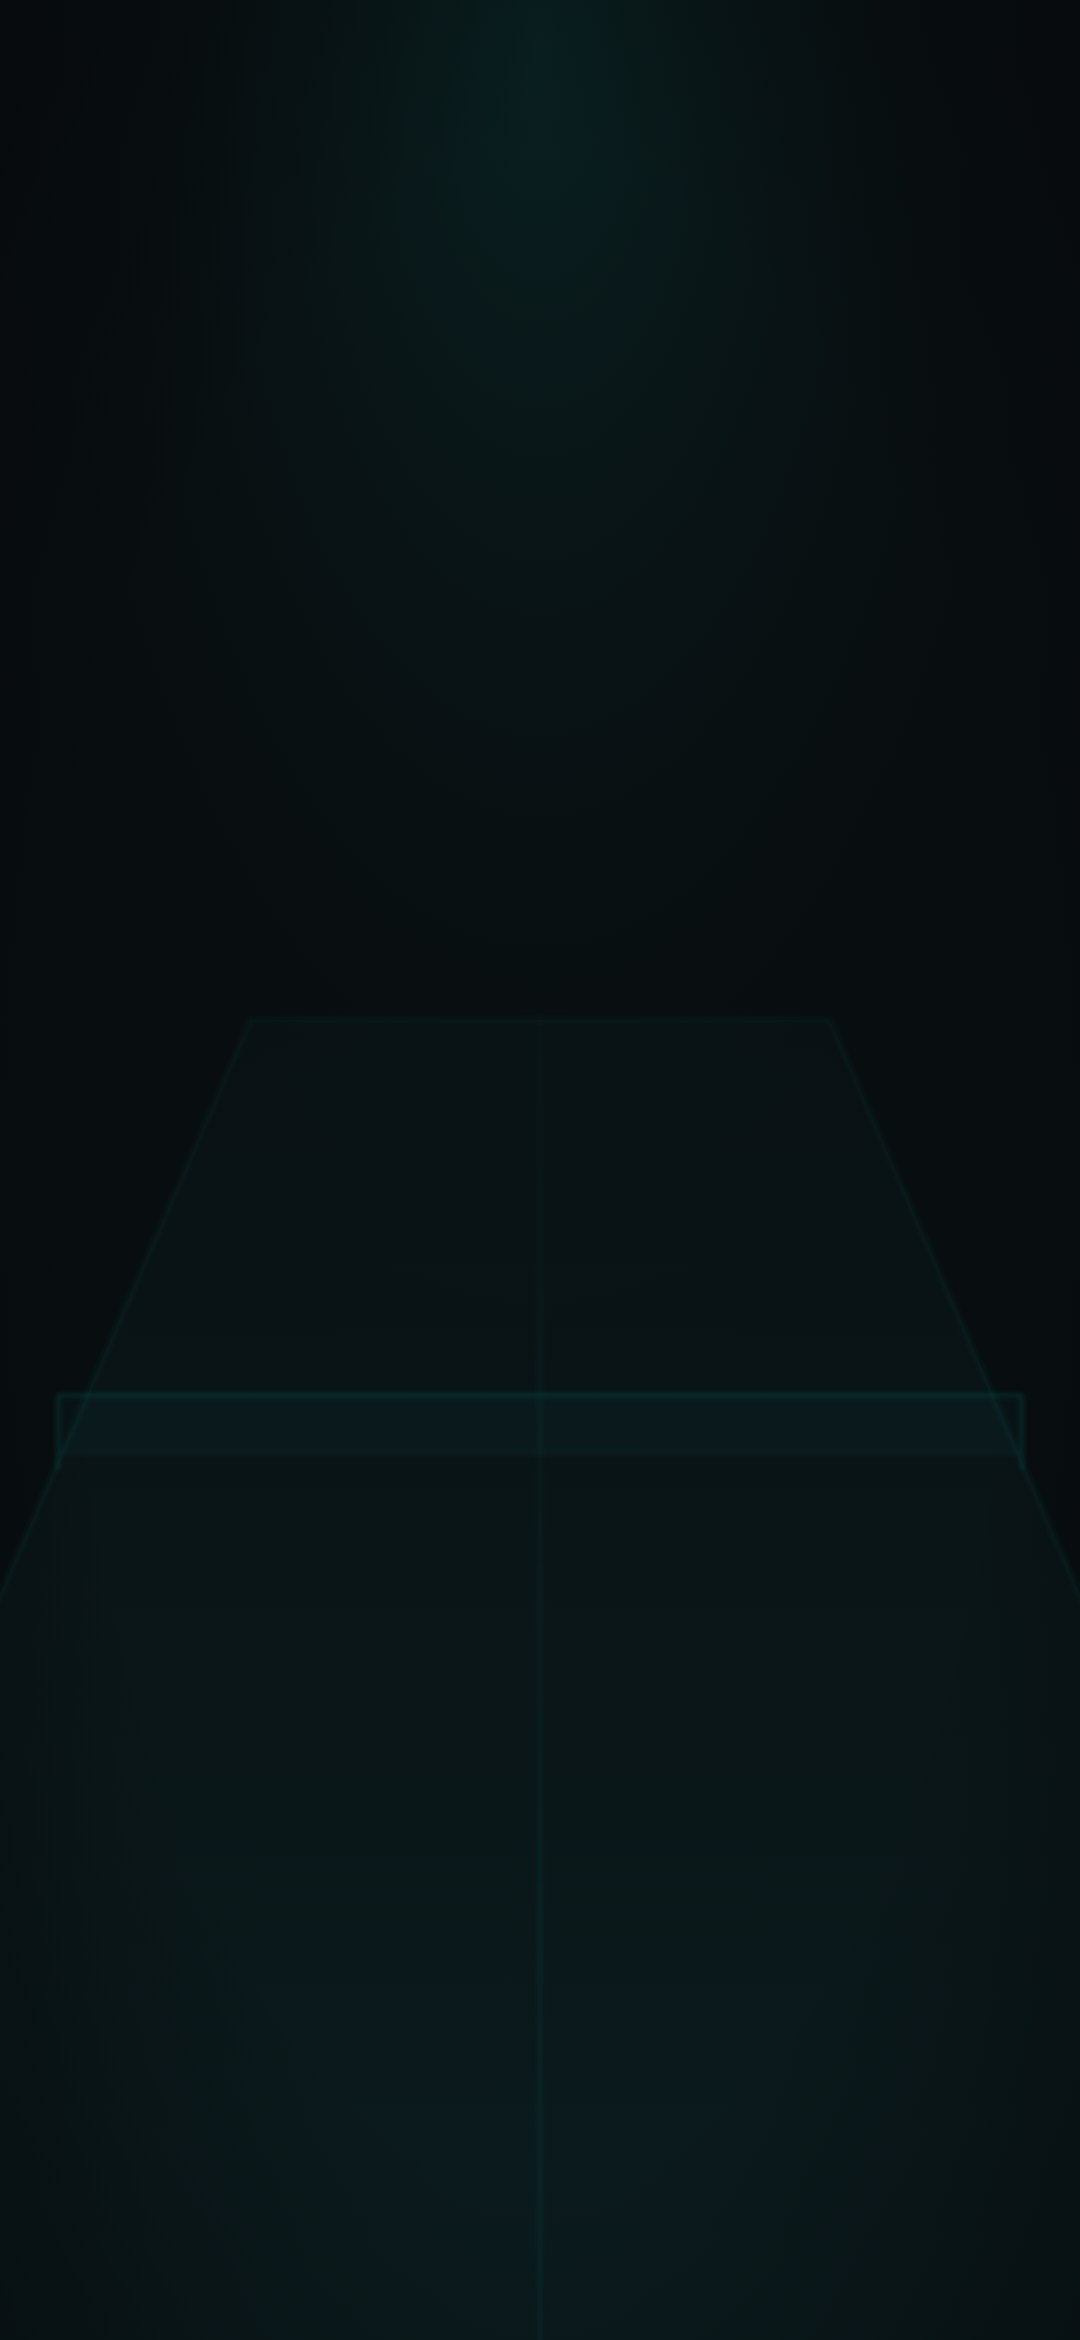
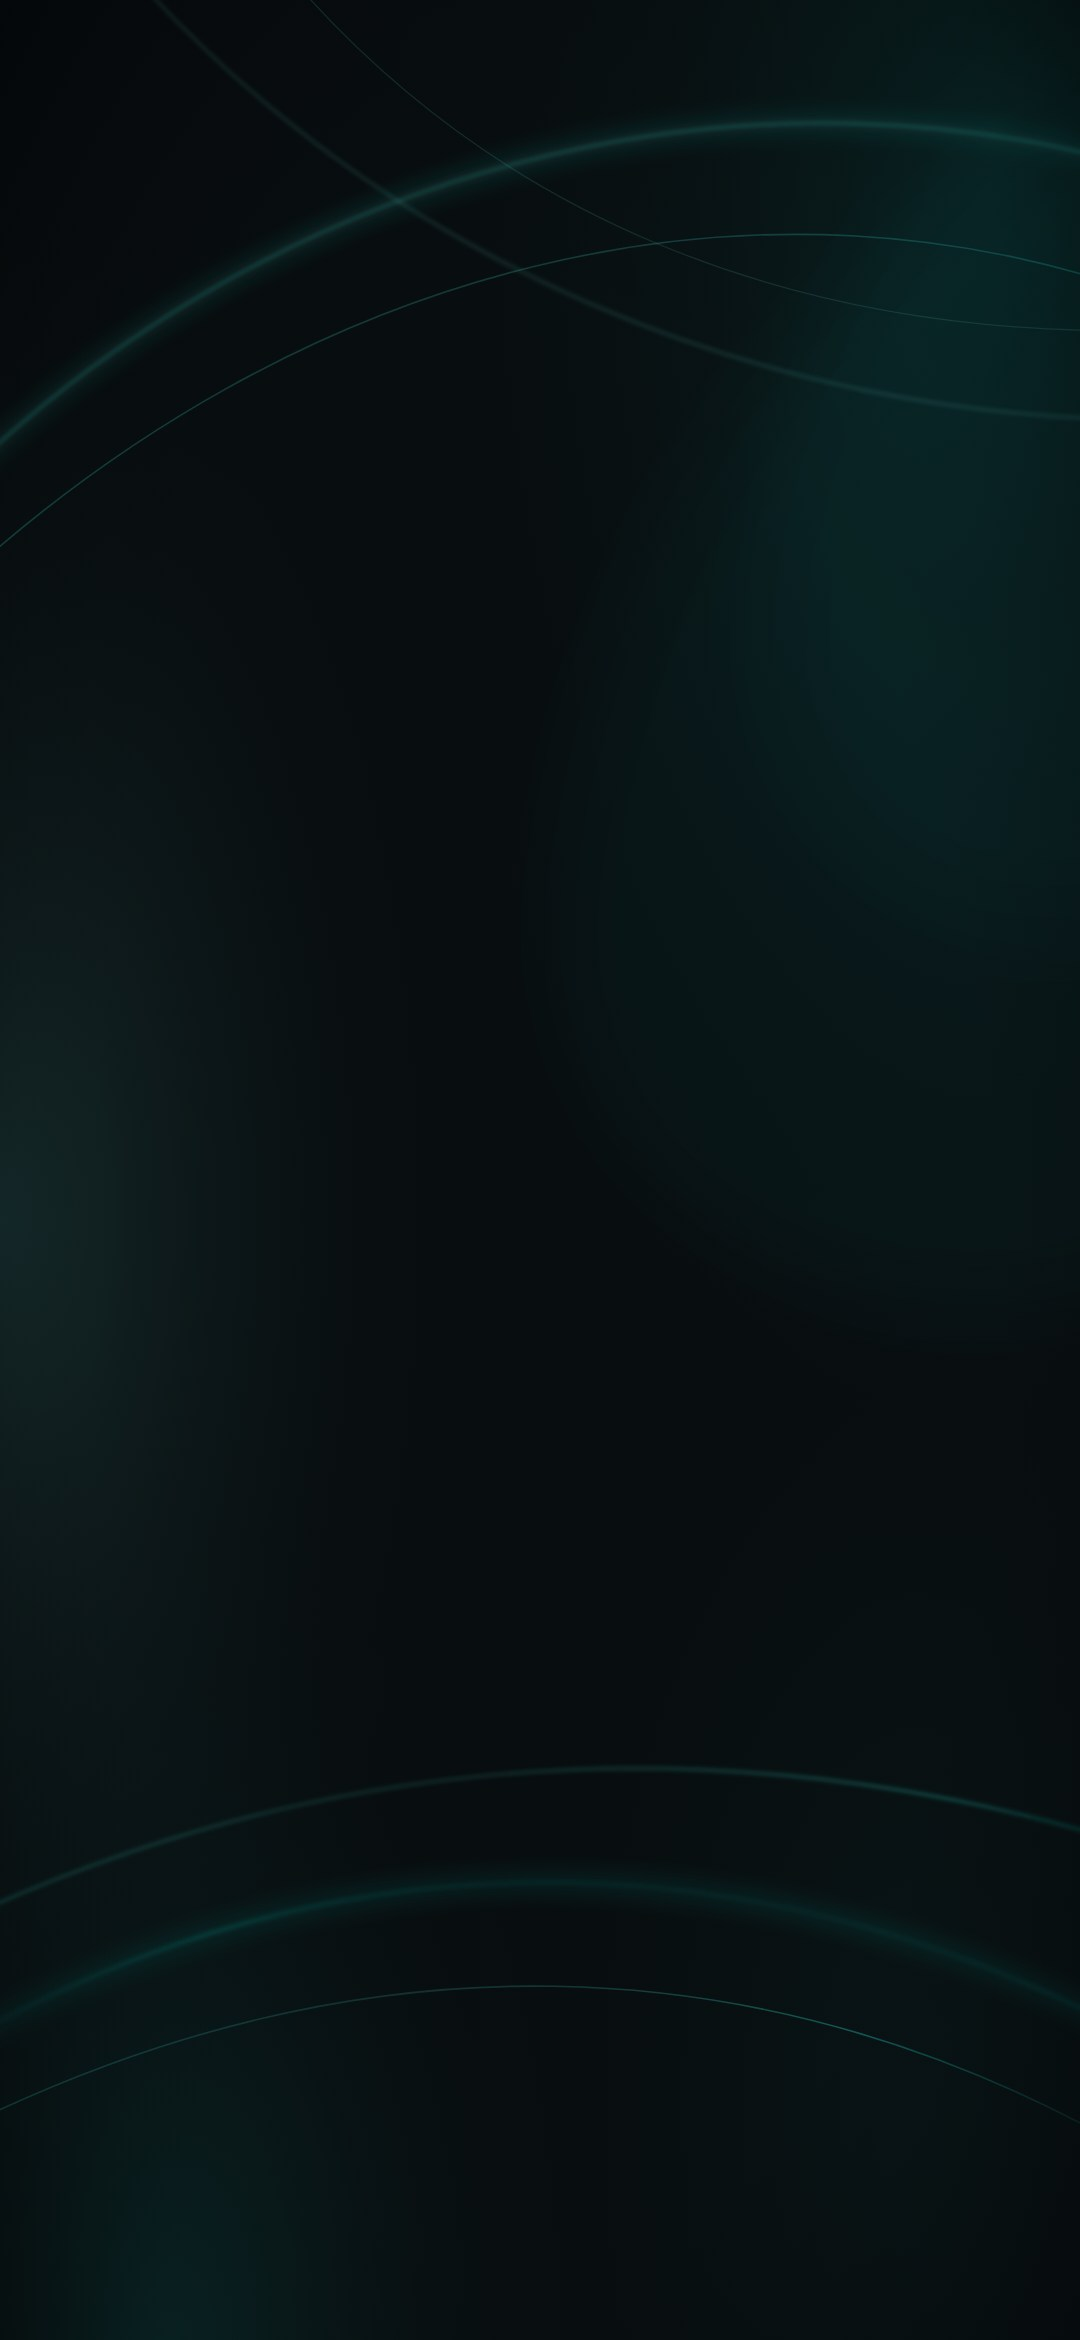
Ranking y Mi rendimiento separados, Inicio con paneles vacíos, botones con filete gris y fondo de arcos (1.0.0+51)

diff --git a/lib/features/home/presentation/home_screen.dart b/lib/features/home/presentation/home_screen.dart
@@ -471,7 +471,19 @@ class _HomeScreenState extends State<HomeScreen>
                       // un tercio de la pantalla y empujaba los partidos hacia abajo.
                       // Mientras juego en una mesa no se ofrece arbitrar: primero
                       // mi partido (el servidor tampoco deja estar en dos mesas).
-                      if (_refMatches.isNotEmpty && !_playingNow) ...[
+                      // Estructura fija del Inicio: arbitraje → próximo partido →
+                      // tus grupos → campeonato → accesos. Cada sección está
+                      // siempre; sin datos muestra "No se registran…" (antes se
+                      // escondía y el Inicio de alguien nuevo quedaba vacío).
+                      if (!_playingNow) ...[
+                        if (_refMatches.isEmpty)
+                          const HomeEmptyCard(
+                            title: "Arbitraje",
+                            icon: Icons.scoreboard_rounded,
+                            message: "No se registran partidos para arbitrar",
+                            hint: "Cuando un organizador te asigne un partido como árbitro, aparecerá aquí.",
+                          )
+                        else
                         HomeRefereeCard(
                           title: "${_refMatches.first.player1Name} vs ${_refMatches.first.player2Name}",
                           subtitle: [
@@ -493,7 +505,18 @@ class _HomeScreenState extends State<HomeScreen>
                         ),
                         const SizedBox(height: 12),
                       ],
-                      if (nm != null) ...[
+                      if (nm == null) ...[
+                        HomeEmptyCard(
+                          title: "Próximo partido",
+                          icon: Icons.calendar_month_rounded,
+                          message: "No se registran partidos programados",
+                          hint: _live != null
+                              ? "Tu campeonato está en curso: tu próximo partido aparecerá apenas lo programen."
+                              : "Inscríbete en un campeonato y aquí verás tu próximo partido, la mesa y tu rival.",
+                          action: _live == null ? "Buscar campeonatos" : null,
+                          onAction: () => AppShellScope.of(context)?.switchTab(3, link: true),
+                        ),
+                      ] else ...[
                         matches,
                         // Más de un partido por jugar: acceso a la lista completa.
                         if ((_dashboard?.otherNextMatches.length ?? 0) > 0) ...[
@@ -512,9 +535,19 @@ class _HomeScreenState extends State<HomeScreen>
                             },
                           ),
                         ],
-                        // Una categoría: la tarjeta grande de siempre. Varias: una
-                        // fila por categoría.
-                        if (_myGroups.length == 1) ...[
+                      ],
+                      // Una categoría: la tarjeta grande de siempre. Varias: una
+                      // fila por categoría. Ninguna: el panel vacío.
+                      ...[
+                        if (_myGroups.isEmpty) ...[
+                          const SizedBox(height: 12),
+                          const HomeEmptyCard(
+                            title: "Tus grupos",
+                            icon: Icons.groups_rounded,
+                            message: "No se registran grupos",
+                            hint: "Cuando empiece la fase de grupos de tu campeonato verás aquí tu posición y tus resultados.",
+                          ),
+                        ] else if (_myGroups.length == 1) ...[
                           const SizedBox(height: 12),
                           HomeGroupCard(
                             groupName: _myGroups.first.match.groupName ?? "",
@@ -555,16 +588,6 @@ class _HomeScreenState extends State<HomeScreen>
                             });
                             if (mounted) _load(silent: true);
                           },
-                        ),
-                        const SizedBox(height: 12),
-                      ],
-                      if (nm == null && _live == null && _challenge == null) ...[
-                        HomeChallengeCard(
-                          kicker: "PRÓXIMO PARTIDO",
-                          name: "Sin partidos programados",
-                          subtitle: "Aún no tienes partidos asignados.",
-                          button: "Buscar campeonatos",
-                          onTap: () => AppShellScope.of(context)?.switchTab(3, link: true),
                         ),
                         const SizedBox(height: 12),
                       ],

diff --git a/lib/features/home/widget/home_v2.dart b/lib/features/home/widget/home_v2.dart
@@ -9,6 +9,7 @@ import "package:myttmi/core/constants/app_typography.dart";
 import "package:myttmi/core/ui/app_button.dart";
 import "package:myttmi/core/ui/card_border.dart";
 import "package:myttmi/core/ui/panel_style.dart";
+import "package:myttmi/core/ui/section_card.dart";
 import "package:myttmi/core/ui/user_avatar.dart";
 import "package:myttmi/features/home/widget/home_layout.dart";
 
@@ -373,7 +374,7 @@ class HomeMatchCard extends StatelessWidget {
       child: Container(
         decoration: BoxDecoration(
           borderRadius: BorderRadius.circular(3),
-          border: Border.all(color: primary ? _mint.withValues(alpha: 0.65) : const Color(0xFF4F6166)),
+          border: Border.all(color: Panel.buttonBorder),
           gradient: LinearGradient(
             begin: Alignment.topCenter,
             end: Alignment.bottomCenter,
@@ -1751,6 +1752,61 @@ class HomeTile extends StatelessWidget {
               ],
             ),
           ),
+        ],
+      ),
+    );
+  }
+}
+
+/// Sección del Inicio sin datos todavía: el mismo panel con su título (así
+/// la estructura del Inicio es siempre la misma) y un "No se registran…"
+/// con la explicación de cuándo va a aparecer algo, en vez de esconderla.
+class HomeEmptyCard extends StatelessWidget {
+  final String title;
+  final IconData icon;
+  final String message;
+  final String? hint;
+  final String? action;
+  final VoidCallback? onAction;
+  const HomeEmptyCard({super.key, required this.title, required this.icon, required this.message, this.hint, this.action, this.onAction});
+
+  @override
+  Widget build(BuildContext context) {
+    return SectionCard(
+      title: title,
+      icon: icon,
+      padding: const EdgeInsets.fromLTRB(14, 14, 14, 14),
+      child: Column(
+        crossAxisAlignment: CrossAxisAlignment.stretch,
+        children: [
+          Row(
+            children: [
+              Container(
+                width: 38,
+                height: 38,
+                alignment: Alignment.center,
+                decoration: panelBox(),
+                child: Icon(icon, size: 19, color: AppColors.scorifyTextFaint),
+              ),
+              const SizedBox(width: 12),
+              Expanded(
+                child: Column(
+                  crossAxisAlignment: CrossAxisAlignment.start,
+                  children: [
+                    Text(message, style: _t(14, w: FontWeight.w600, c: AppColors.scorifyTextMuted)),
+                    if (hint != null) ...[
+                      const SizedBox(height: 3),
+                      Text(hint!, style: _t(12, c: AppColors.scorifyTextFaint, h: 1.35)),
+                    ],
+                  ],
+                ),
+              ),
+            ],
+          ),
+          if (action != null) ...[
+            const SizedBox(height: 12),
+            AppButton.outline(label: action!, onPressed: onAction, height: 38),
+          ],
         ],
       ),
     );

diff --git a/lib/features/stats/presentation/stats_screen.dart b/lib/features/stats/presentation/stats_screen.dart
@@ -1,4 +1,5 @@
 import 'package:myttmi/core/ui/panel_style.dart';
+import 'package:myttmi/core/ui/page_skeleton.dart';
 import 'package:myttmi/core/ui/stagger_in.dart';
 import 'package:myttmi/core/ui/stat_gauge.dart';
 import 'package:myttmi/core/ui/glass_card.dart';
@@ -27,14 +28,11 @@ class StatsScreen extends StatefulWidget {
   // false cuando vive embebido dentro de una sub-pestaña (p.ej. "Mi
   // rendimiento") que ya muestra su propio encabezado.
   final bool showHeader;
-  /// Encabezado de quien lo embebe (título + selector de "Mi rendimiento"):
-  /// va dentro del scroll, así sube junto con el contenido.
-  final Widget? header;
   /// Avisa cuando terminó la primera carga ("Mi rendimiento" muestra el
   /// esqueleto de pestaña completa hasta entonces).
   final VoidCallback? onLoaded;
 
-  const StatsScreen({super.key, this.showHeader = true, this.header, this.onLoaded});
+  const StatsScreen({super.key, this.showHeader = true, this.onLoaded});
 
   @override
   State<StatsScreen> createState() => _StatsScreenState();
@@ -56,6 +54,8 @@ class _StatsScreenState extends State<StatsScreen> with TabAutoRefreshMixin<Stat
   // Partidos terminados, del más reciente al más antiguo.
   List<PlayerMatchHistoryItem> _recent = [];
   bool _loading = true;
+  // Primera carga: esqueleto de la página entera (después, recargas en silencio).
+  bool _loadedOnce = false;
   String? _error;
 
   @override
@@ -86,7 +86,12 @@ class _StatsScreenState extends State<StatsScreen> with TabAutoRefreshMixin<Stat
       if (!mounted) return;
       setState(() => _error = e.toString());
     } finally {
-      if (mounted) setState(() => _loading = false);
+      if (mounted) {
+        setState(() {
+          _loading = false;
+          _loadedOnce = true;
+        });
+      }
       widget.onLoaded?.call();
     }
   }
@@ -107,6 +112,7 @@ class _StatsScreenState extends State<StatsScreen> with TabAutoRefreshMixin<Stat
 
   @override
   Widget build(BuildContext context) {
+    if (!_loadedOnce) return const PageSkeleton();
     final s = _stats;
     final played = s?.matchesPlayed ?? 0;
     final won = s?.matchesWon ?? 0;
@@ -123,10 +129,9 @@ class _StatsScreenState extends State<StatsScreen> with TabAutoRefreshMixin<Stat
         header: [
           const SizedBox(height: 16),
           if (widget.showHeader) ...[
-            const TopHeader(title: "Estadísticas", showBack: false),
+            const TopHeader(title: "Mi rendimiento", showBack: false),
             const SizedBox(height: 16),
           ],
-          if (widget.header != null) ...[widget.header!, const SizedBox(height: 16)],
         ],
         body: _loading
                 ? const LoadingState()

diff --git a/lib/features/ranking/presentation/ranking_screen.dart b/lib/features/ranking/presentation/ranking_screen.dart
@@ -1,4 +1,5 @@
 import "package:myttmi/core/ui/panel_style.dart";
+import 'package:myttmi/core/ui/page_skeleton.dart';
 import "package:myttmi/core/ui/user_avatar.dart";
 import 'package:flutter/material.dart';
 import 'package:myttmi/core/constants/app_colors.dart';
@@ -32,11 +33,8 @@ class RankingScreen extends StatefulWidget {
   // false cuando vive embebido dentro de una sub-pestaña (p.ej. "Mi
   // rendimiento") que ya muestra su propio encabezado.
   final bool showHeader;
-  /// Encabezado de quien lo embebe (título + selector de "Mi rendimiento"):
-  /// va dentro del scroll, así sube junto con el contenido.
-  final Widget? header;
 
-  const RankingScreen({super.key, this.showHeader = true, this.header});
+  const RankingScreen({super.key, this.showHeader = true});
 
   @override
   State<RankingScreen> createState() => _RankingScreenState();
@@ -44,7 +42,7 @@ class RankingScreen extends StatefulWidget {
 
 class _RankingScreenState extends State<RankingScreen> with TabAutoRefreshMixin<RankingScreen> {
   @override
-  int get tabIndex => 2;
+  int get tabIndex => 4;
 
   @override
   // Al volver a la pestaña se actualiza en silencio (sin esqueleto).
@@ -56,6 +54,8 @@ class _RankingScreenState extends State<RankingScreen> with TabAutoRefreshMixin<
   List<RankingEntry> _entries = [];
   String? _myUserId;
   bool _loading = true;
+  // Primera carga: esqueleto de la página entera (después, recargas en silencio).
+  bool _loadedOnce = false;
   String? _error;
 
   @override
@@ -86,12 +86,18 @@ class _RankingScreenState extends State<RankingScreen> with TabAutoRefreshMixin<
       if (!mounted) return;
       setState(() => _error = e.toString());
     } finally {
-      if (mounted) setState(() => _loading = false);
+      if (mounted) {
+        setState(() {
+          _loading = false;
+          _loadedOnce = true;
+        });
+      }
     }
   }
 
   @override
   Widget build(BuildContext context) {
+    if (!_loadedOnce) return const PageSkeleton();
     final query = _search.text.toLowerCase();
     final filtered = _entries
         .where((p) => p.name.toLowerCase().contains(query) || (p.clubName ?? "").toLowerCase().contains(query))
@@ -112,7 +118,6 @@ class _RankingScreenState extends State<RankingScreen> with TabAutoRefreshMixin<
             const TopHeader(title: "Ranking", showBack: false),
             const SizedBox(height: 14),
           ],
-          if (widget.header != null) ...[widget.header!, const SizedBox(height: 14)],
           TextField(
             controller: _search,
             onChanged: (_) => setState(() {}),

diff --git a/lib/features/shell/app_shell.dart b/lib/features/shell/app_shell.dart
@@ -21,7 +21,8 @@ import 'package:myttmi/core/ui/app_toast.dart';
 import 'package:myttmi/core/ui/prism_background.dart';
 import 'package:myttmi/features/calendar/presentation/calendar_screen.dart';
 import 'package:myttmi/features/home/presentation/home_screen.dart';
-import 'package:myttmi/features/performance/presentation/performance_screen.dart';
+import 'package:myttmi/features/stats/presentation/stats_screen.dart';
+import 'package:myttmi/features/ranking/presentation/ranking_screen.dart';
 import 'package:myttmi/features/tournament/presentation/tournaments_screen.dart';
 import "package:myttmi/features/player/presentation/celebration_dialog.dart";
 import 'package:myttmi/routes/cyber_page_route.dart';
@@ -30,8 +31,9 @@ import 'package:myttmi/routes/cyber_page_route.dart';
 /// Campeonatos viven como pestañas de un mismo IndexedStack en vez de pushes
 /// independientes — así la barra flotante no desaparece al cambiar de sección
 /// y cada pestaña conserva su estado (scroll, filtros, mes elegido) al volver.
-/// "Mi rendimiento" fusiona Ranking + Estadísticas (antes 2 pestañas propias)
-/// con sub-navegación interna, ver PerformanceScreen.
+/// "Mi rendimiento" (estadísticas) y "Ranking" son pestañas separadas. Ranking
+/// va al final del IndexedStack para no cambiar el índice de Campeonatos (3),
+/// al que saltan los enlaces del Inicio.
 class AppShell extends StatefulWidget {
   const AppShell({super.key});
 
@@ -46,8 +48,9 @@ class _AppShellState extends State<AppShell>
   static const _tabs = [
     HomeScreen(),
     CalendarScreen(),
-    PerformanceScreen(),
+    StatsScreen(),
     TournamentsScreen(),
+    RankingScreen(),
   ];
 
   // Mismo lenguaje que CyberPageRoute (ver cyber_page_route.dart) pero para
@@ -269,6 +272,7 @@ class _AppShellState extends State<AppShell>
           DrawerItem(Icons.home_rounded, "Inicio", () => _switchTab(0), selected: _index == 0),
           DrawerItem(Icons.calendar_month_rounded, "Calendario", () => _switchTab(1), selected: _index == 1),
           DrawerItem(Icons.trending_up_rounded, "Mi rendimiento", () => _switchTab(2), selected: _index == 2),
+          DrawerItem(Icons.leaderboard_rounded, "Ranking", () => _switchTab(4), selected: _index == 4),
           DrawerItem(Icons.emoji_events_rounded, "Campeonatos", () => _switchTab(3), selected: _index == 3),
         ],
         more: [

diff --git a/lib/core/ui/panel_style.dart b/lib/core/ui/panel_style.dart
@@ -50,7 +50,9 @@ abstract final class Panel {
     stops: [0, 0.45, 0.85, 1],
     colors: [Color(0xFF151A1C), Color(0xFF16242A), Color(0xFF0E3B47), Color(0xFF0F5263)],
   );
-  static const primaryButtonBorder = Color(0xA600B3D6);
+  // Mismo filete gris azulado que el secundario (el celeste se veía como
+  // "borde azul" y no calzaba con la referencia): lo distingue el fondo.
+  static const primaryButtonBorder = buttonBorder;
 
   /// Botón de peligro: igual, el fondo tira a rojo.
   static const dangerButtonGradient = LinearGradient(
